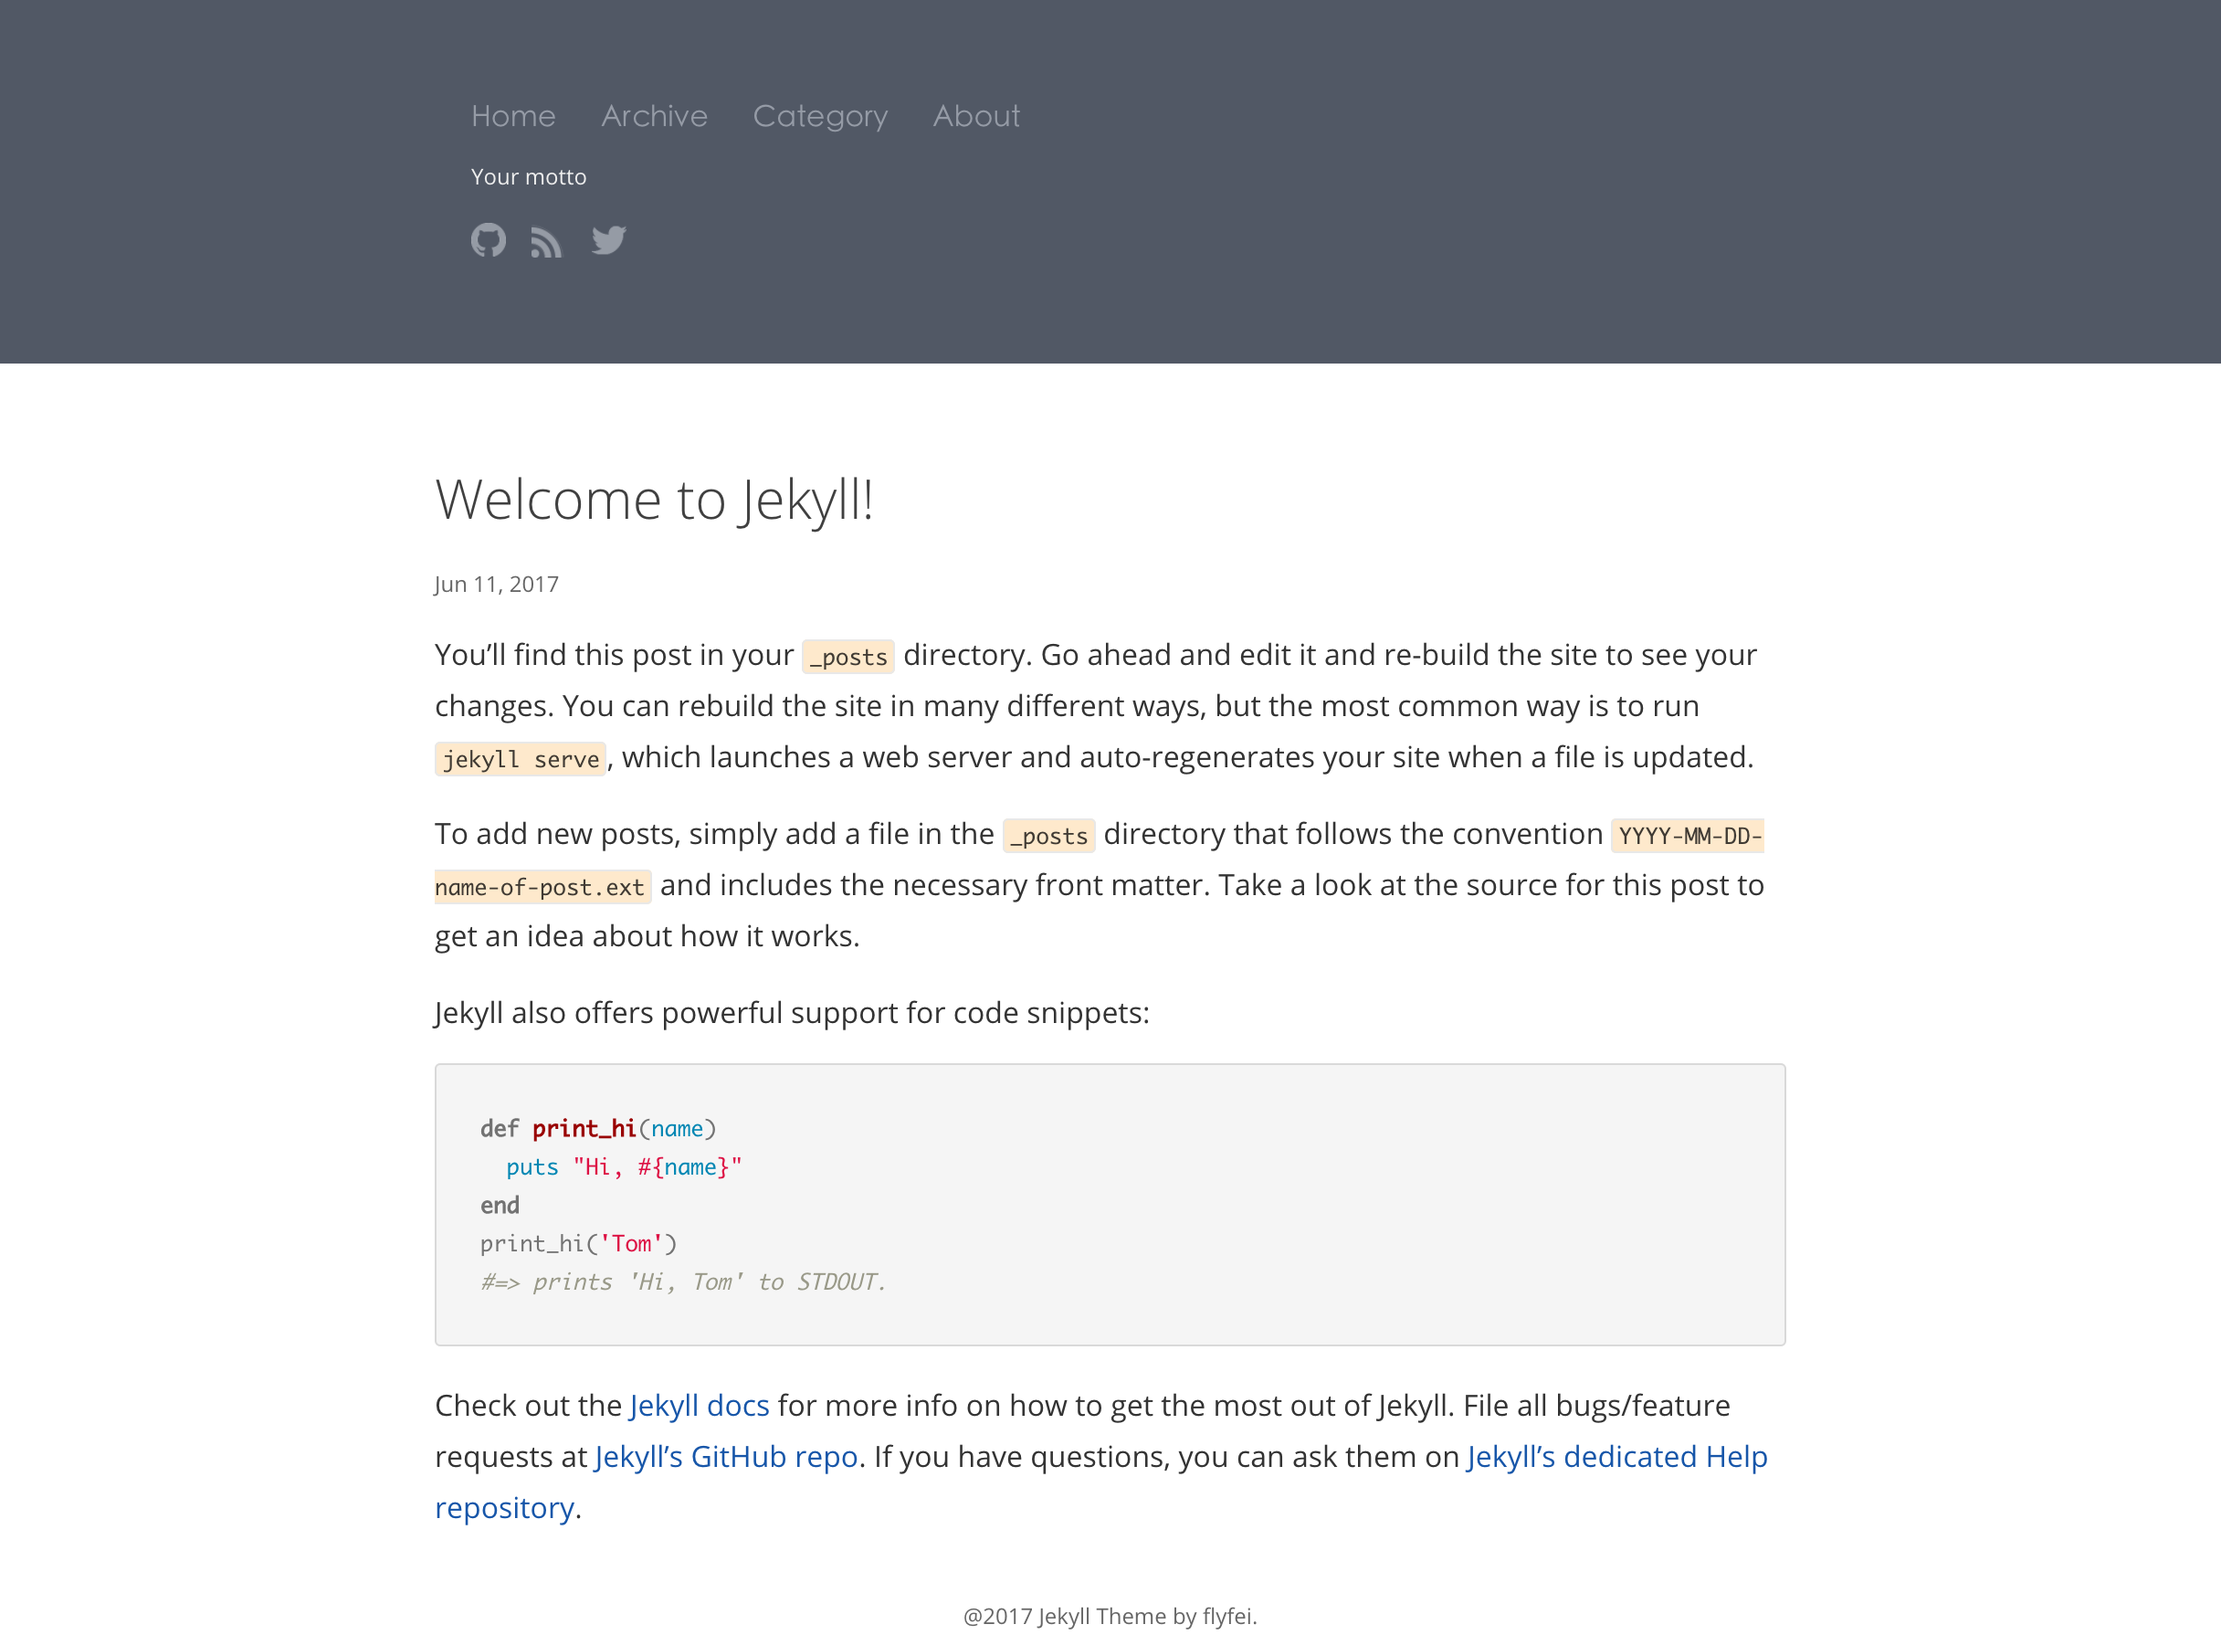
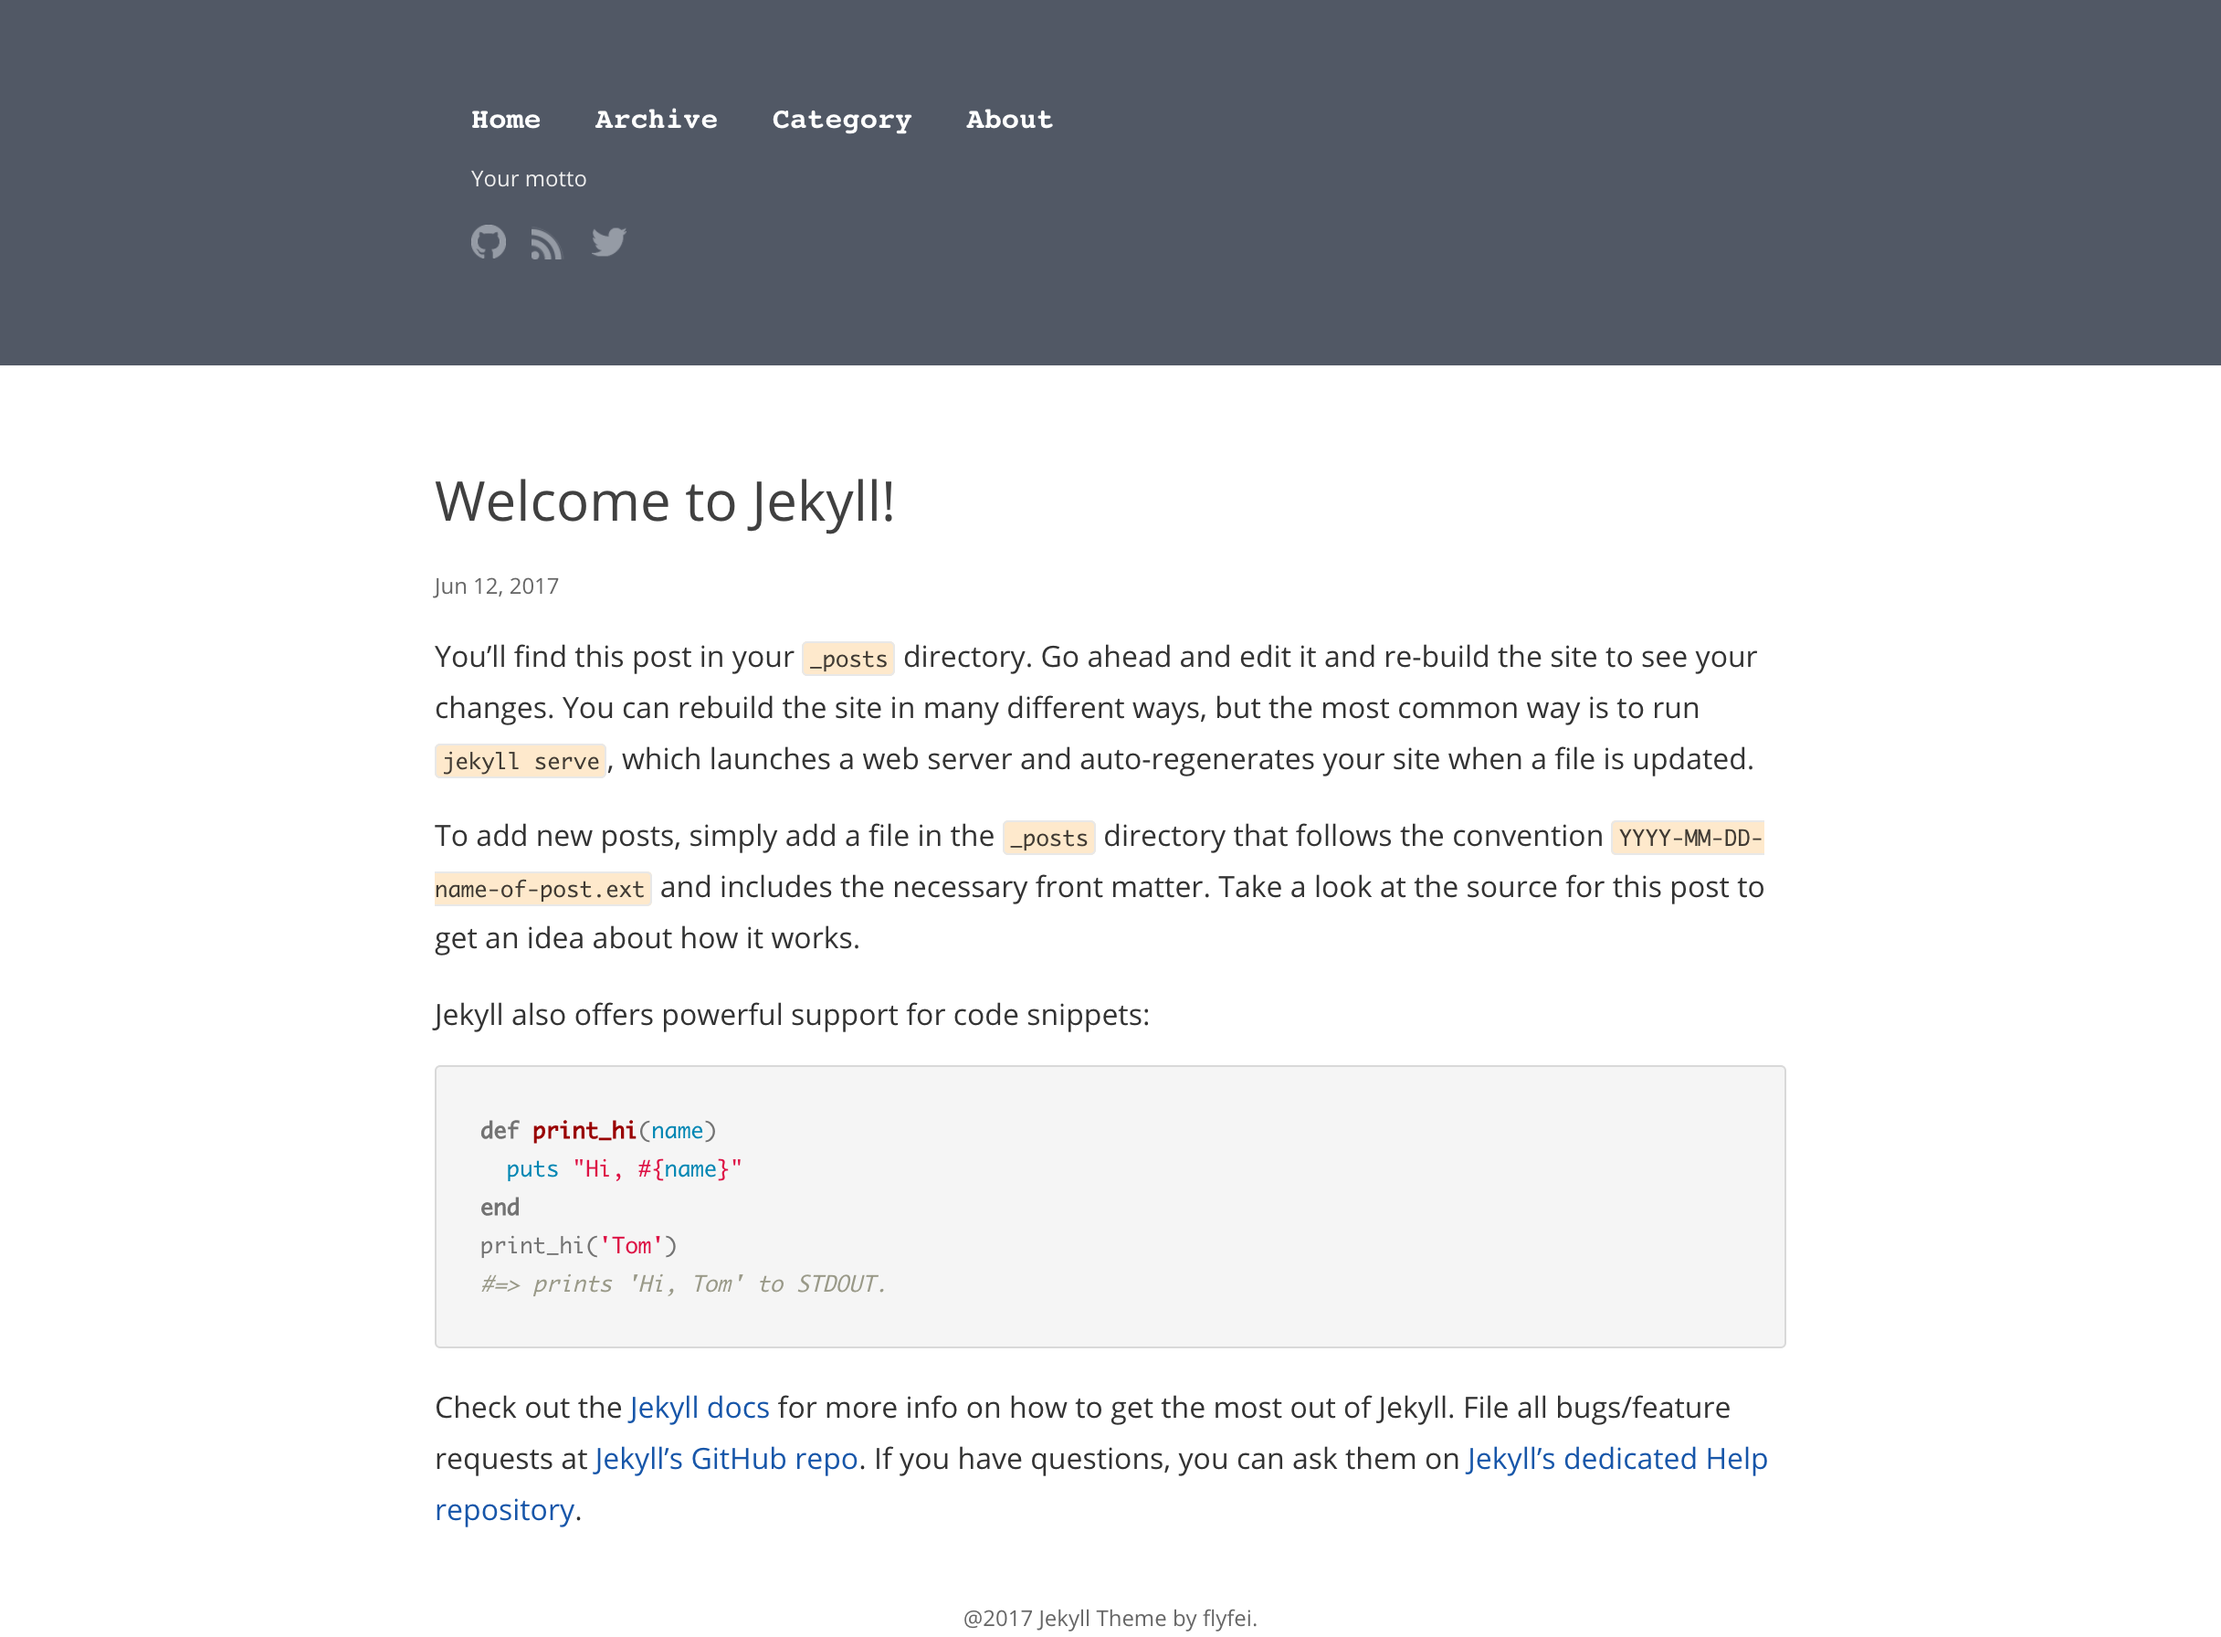
fix style

diff --git a/_sass/_custom-theme.scss b/_sass/_custom-theme.scss
@@ -33,6 +33,12 @@ pre code {
     text-transform: capitalize;
     font-size: 16px;
     font-weight: 600;
-    font-family: "Montserrat",sans-serif;
+    font-family: monospace;
     display:inline;
+}
+.nav a {
+    color: white;
+}
+.well {
+    font-family: monospace;
 }
